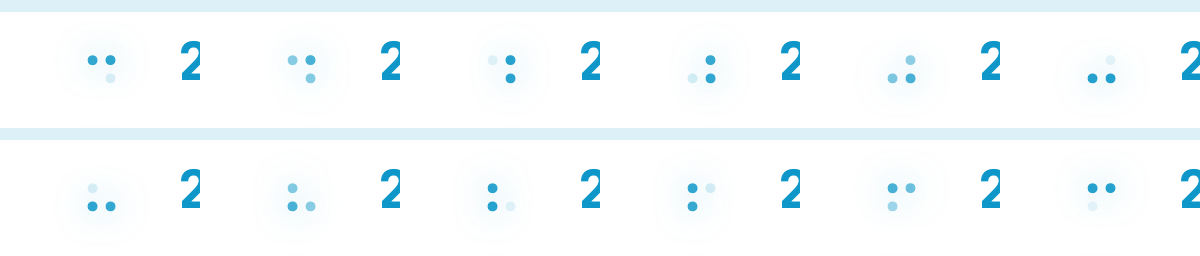
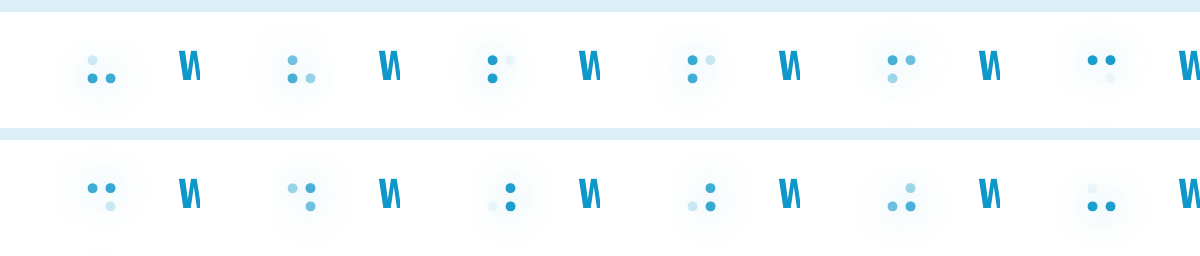
Give the working glyph the box it was first drawn in, 26px and centred, with its margin handing the row's padding back
The glyph box is 26px high with a 26px line, as in 0211780, and its -3px vertical margins give back
the row's padding, so rows stay 26px and the glyph stays centred on the title. The test holds the
box, the margin and the row's line and padding in place; the frame strip is shot from this box.

diff --git a/client/src/jvmTest/kotlin/se/soderbjorn/lunamux/client/WorkingGlyphStyleTest.kt b/client/src/jvmTest/kotlin/se/soderbjorn/lunamux/client/WorkingGlyphStyleTest.kt
@@ -7,7 +7,7 @@
  * back to Apple Braille, and inheriting the bold weight of the word beside it (the state cell of a
  * working row is bold) picks that font's outlined six-dot face, which draws a ring at every dot
  * the pair leaves unlit. These tests fail when the `.ao-work` rule stops saying its own weight or
- * stops being as high as a row's line.
+ * stops being the box it was first drawn in, kept inside the height of its row.
  *
  * @see se.soderbjorn.lunamux.WorkingGlyphSpec
  */
@@ -52,20 +52,26 @@ class WorkingGlyphStyleTest {
         assertEquals("400", glyphRule()["font-weight"])
     }
 
-    /** The glyph's box is as high as a row's line, so it never grows its row. */
+    /**
+     * The glyph's box is the 26px one it was first drawn in, centred on the row, and its 3px
+     * negative margins take back the row's padding so it never grows the row.
+     */
     @Test
-    fun glyphBoxIsAsHighAsARowLine() {
+    fun glyphBoxIsTheOriginalOneAndDoesNotGrowItsRow() {
         val rule = glyphRule()
-        assertEquals("20px", rule["height"])
-        assertEquals(rule["height"], rule["line-height"])
+        assertEquals("26px", rule["height"])
+        assertEquals("26px", rule["line-height"])
         assertEquals("2ch", rule["width"])
+        assertEquals("center", rule["text-align"])
+        assertEquals("-3px 0", rule["margin"])
     }
 
-    /** The row's line is 20px, the height the glyph's box is held to above. */
+    /** The row is a 20px line with 3px of padding above and below, which the glyph's margins give back. */
     @Test
-    fun rowLineIsTheGlyphBoxHeight() {
+    fun rowPaddingIsWhatTheGlyphMarginsGiveBack() {
         val css = stylesheet()
         val row = Regex("""(?m)^\.ao-row\s*\{([^}]*)}""").find(css)?.groupValues?.get(1)
         assertTrue(row != null && Regex("""line-height:\s*20px""").containsMatchIn(row), "`.ao-row` line is not 20px")
+        assertTrue(Regex("""padding:\s*3px 14px""").containsMatchIn(row), "`.ao-row` padding is not 3px 14px")
     }
 }

diff --git a/web/src/jsMain/resources/styles.css b/web/src/jsMain/resources/styles.css
@@ -3685,8 +3685,10 @@ body[data-tt-news-pulse="1"] .tt-news-topbar {
 .ao-more { cursor: pointer; }
 
 /* The working glyph (WorkingGlyph.kt): two layers stacked in one box and cross-faded by the script,
-   in the accent with a soft glow. The box is as high as a row's line so it does not grow the row, and
-   the cell it sits in lets the glow spill past its edge. Its weight is its own and always regular,
+   in the accent with a soft glow. The box is the one the glyph was first drawn in: 26px high, its
+   line 26px, centred on the row. A row is 26px (a 20px line and 3px of padding each side), so the 3px
+   margins above and below hand that padding back and the box does not grow its row. The cell it sits
+   in lets the glow spill past its edge. Its weight is its own and always regular,
    never the word's beside it: the monospace face has no braille, so the system falls back to Apple
    Braille, and a bold weight there picks its outlined six-dot face, which draws a ring at every dot
    position the pair does not light. */
@@ -3695,10 +3697,11 @@ body[data-tt-news-pulse="1"] .tt-news-topbar {
     position: relative;
     display: inline-block;
     width: 2ch;
-    height: 20px;
+    height: 26px;
+    margin: -3px 0;
     font-size: 19px;
     font-weight: 400;
-    line-height: 20px;
+    line-height: 26px;
     vertical-align: top;
     text-align: center;
     color: var(--ao-accent);
